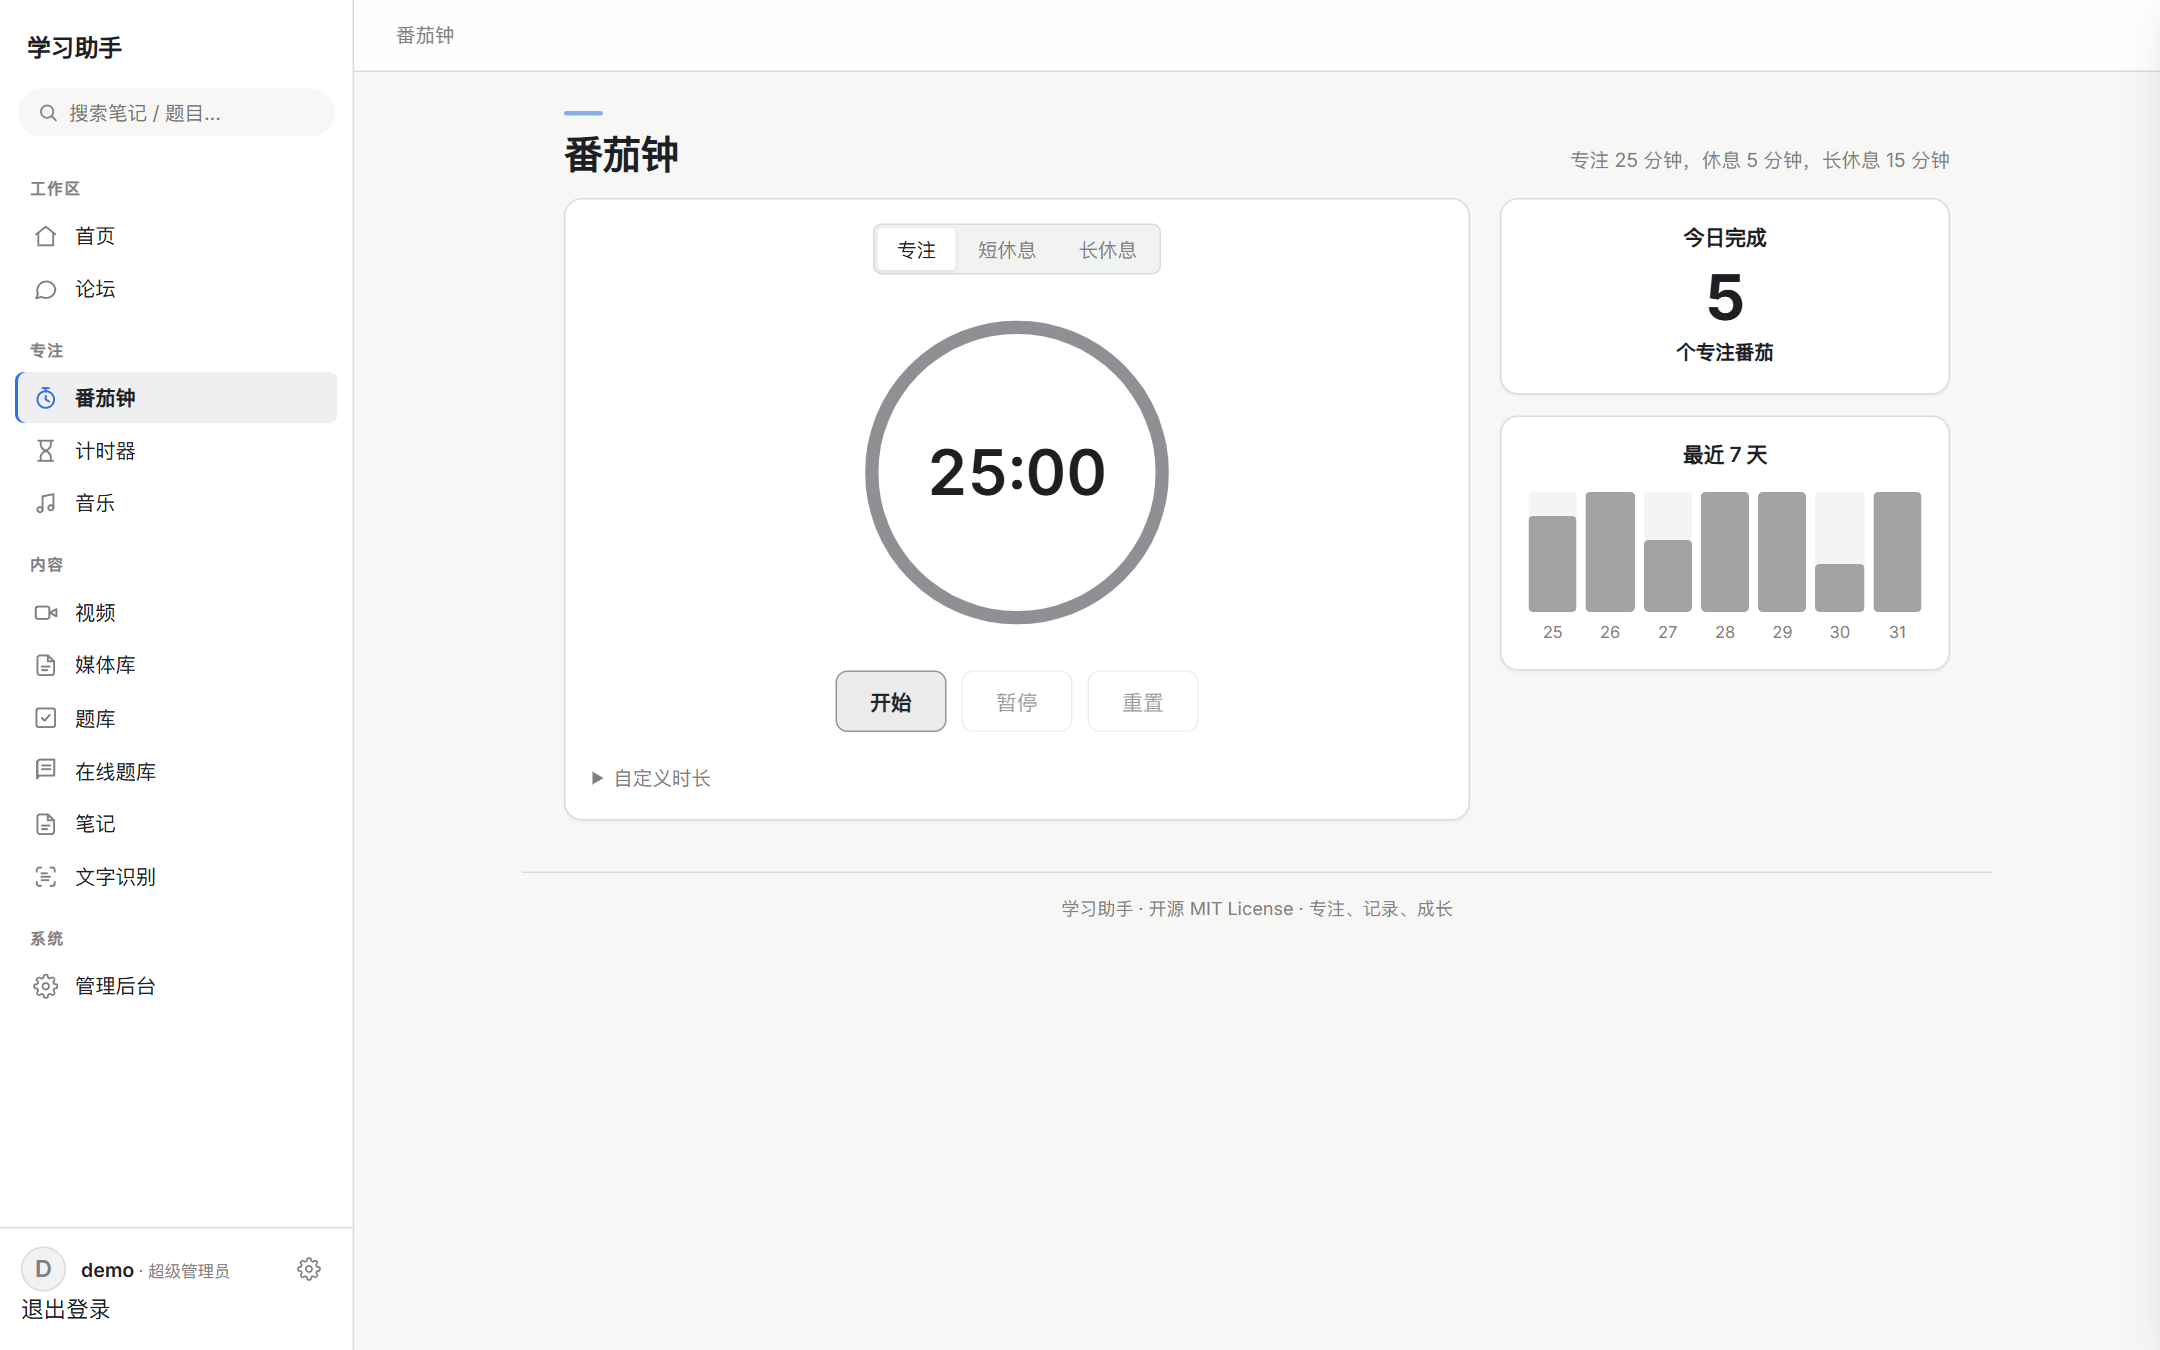
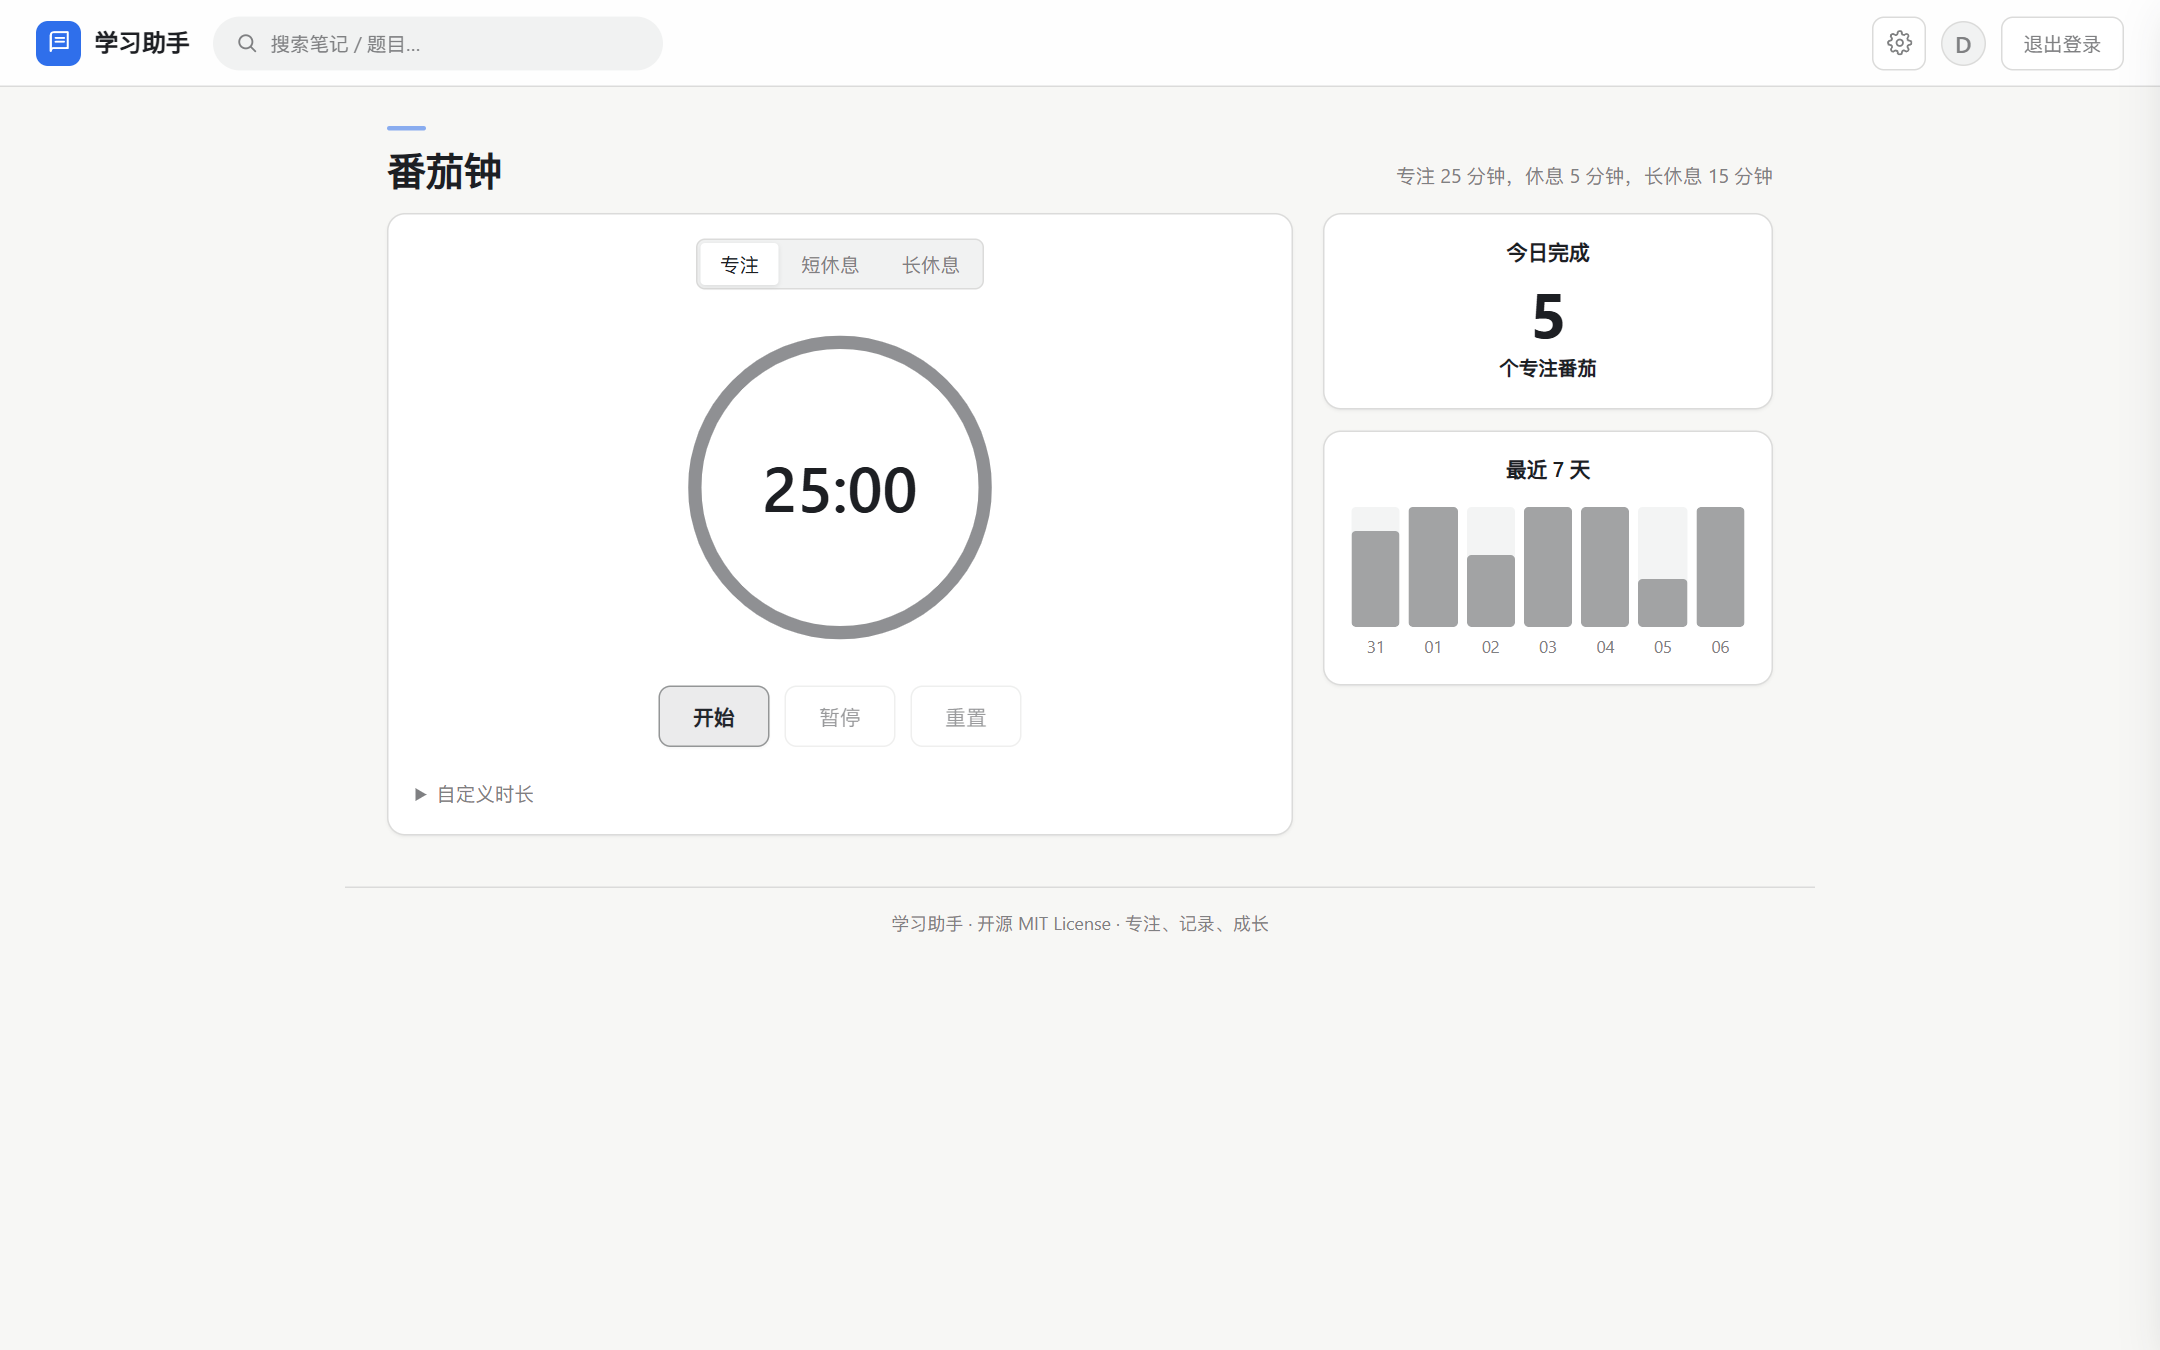
docs: 重拍界面预览截图为 v1.1.0 布局
用独立临时演示数据库 + Playwright/Edge 重拍 5 张截图，仪表盘改为独立控件顶栏与全部功能按钮网格；README 截图说明与 CHANGELOG 同步更新。真实数据库 data/study_assistant.db 未被触碰。

diff --git a/README.md b/README.md
@@ -22,9 +22,8 @@
 
 ![管理后台](docs/screenshots/05-admin.png)
 
-> 以上截图来自项目本地运行效果。首次使用请先注册账号；需要进入管理后台时，用 `python tools/create_admin.py` 把该账号提升为管理员。
->
-> 注：截图拍摄于 v1.0.x 界面。**v1.1.0 起仪表盘已改为「独立功能按钮网格」布局**（去掉分组侧边栏，顶栏控件拆成独立按钮），其余页面与截图一致。
+> 以上截图来自项目本地运行效果，为 **v1.1.0 界面**（仪表盘已改为「独立功能按钮网格」布局，无分组侧边栏）。
+> 首次使用请先注册账号；需要进入管理后台时，用 `python tools/create_admin.py` 把该账号提升为管理员。
 
 ## 功能列表
 

diff --git a/CHANGELOG.md b/CHANGELOG.md
@@ -29,6 +29,8 @@
 - README 功能表、目录结构、环境变量表、技术栈表同步补充桌面版条目；界面预览注明截图拍摄于 v1.0.x 布局。
 - README「单机桌面版」章节增加「从源码自行打包」折叠小节（构建命令、依赖、隐私检查、Release 分发说明）；
   新增 `packaging/使用说明.txt` 作为随包用户说明的源文件。
+- 界面预览 5 张截图重拍为 v1.1.0 布局（仪表盘独立按钮网格）；
+  截图使用独立的临时演示数据库，不触碰 `data/study_assistant.db`。
 
 ### 说明
 - 打包产物（`study-assistant-standalone-v1.1.0.zip`，约 227 MB）**不纳入 git 仓库**（GitHub 单文件上限 100 MB），
